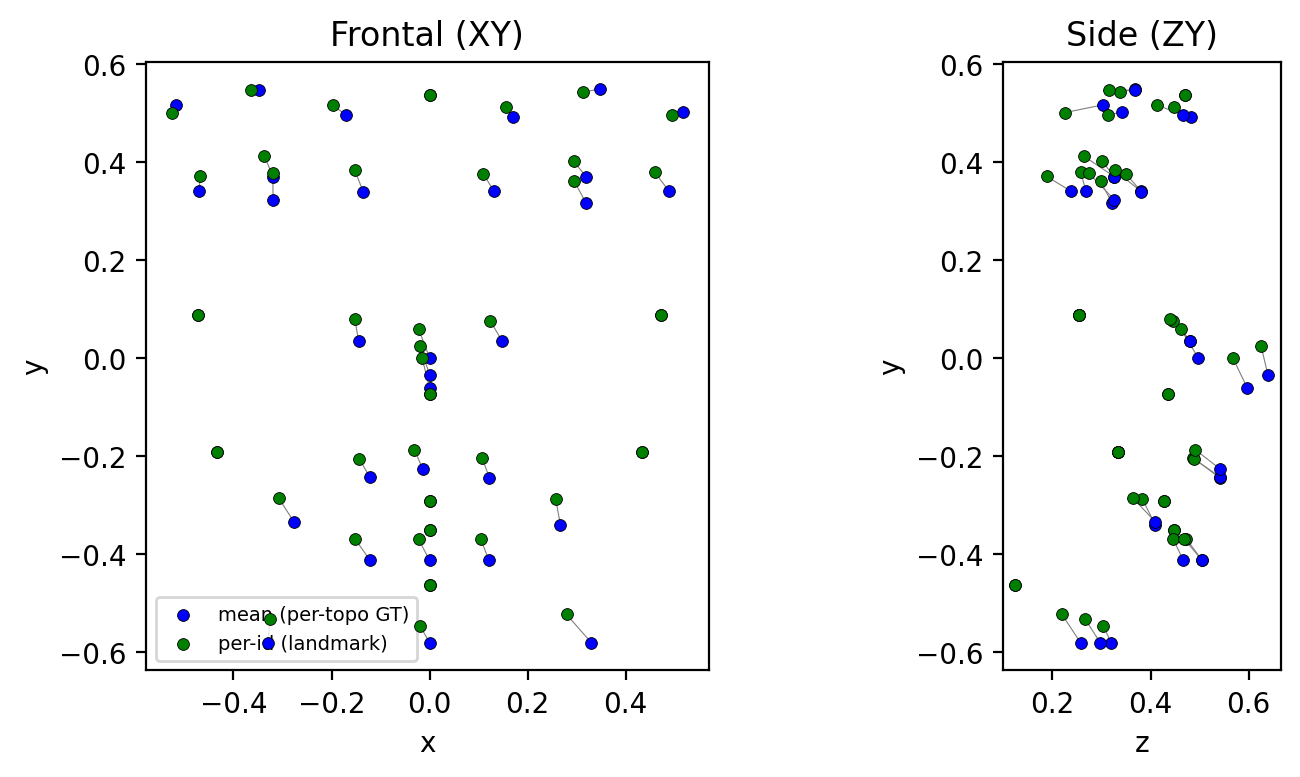
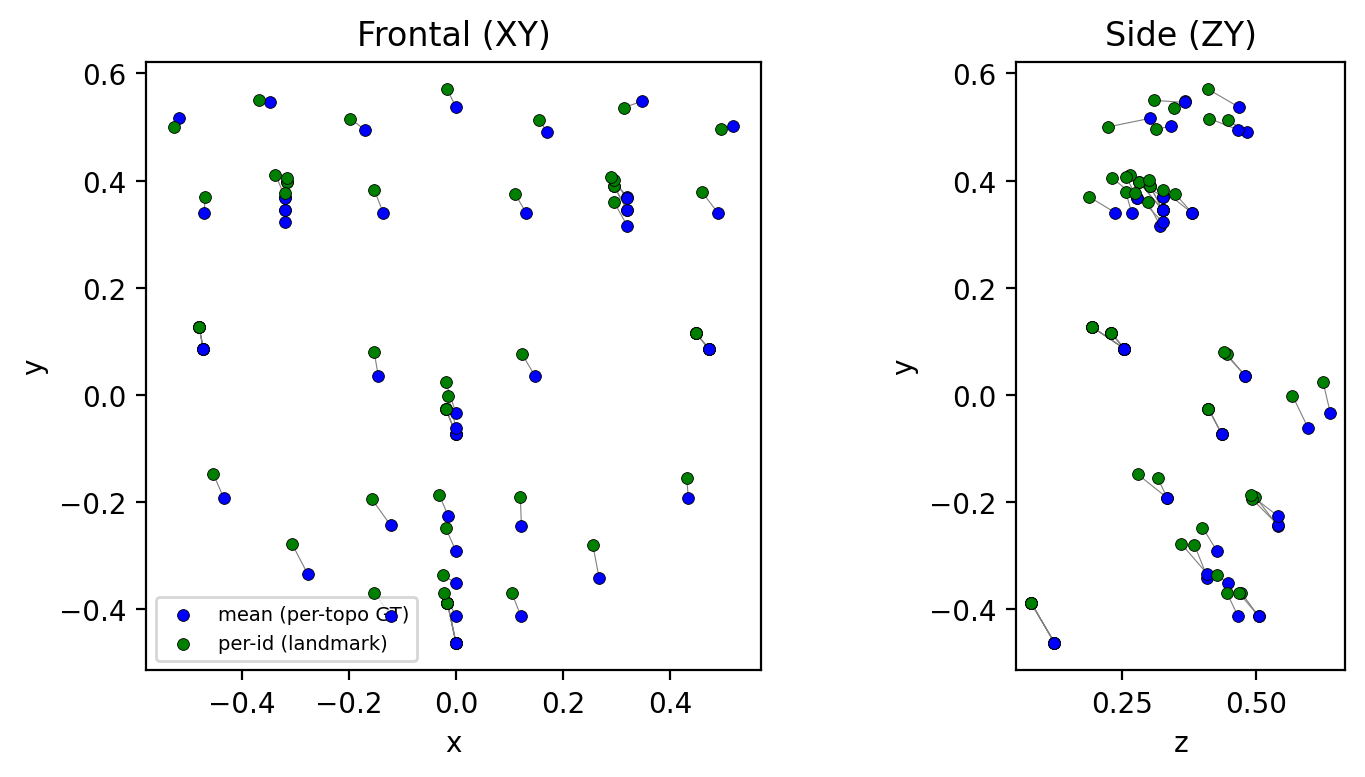
chore(vis): refresh per-id bind-pose vis for ICT id=2 + MF val/test
Re-ran tools/vis/vis_per_id_bind_pos_landmark.py for ICT id=2 (new)
and MF val (002421669) / test (002645310) (updated). Maya import
script also regenerated for ICT id=2. Matches the existing per-id
visualization workflow already tracked for other identities.

diff --git a/maya_rig/hybrid/per_id_bind_pose_vis/ict_002_bind_pos_maya.py b/maya_rig/hybrid/per_id_bind_pose_vis/ict_002_bind_pos_maya.py
@@ -1,0 +1,41 @@
+"""Auto-generated by vis_per_id_bind_pos_landmark.py
+Two skeleton hierarchies:
+  - ict_002_maya_mean  (BLUE):  per-topo mean bind_pos (Maya GT)
+  - ict_002_landmark   (GREEN): landmark-derived per-id bind_pos (Phase B GT)
+"""
+import maya.cmds as cmds
+
+
+_MEAN_POS  = {'hybrid_jnt_Root': [0.0, -1.4533270597457886, -0.23328500986099243], 'hybrid_jnt_Neck': [0.0, -0.38433727622032166, -0.23328500986099243], 'hybrid_jnt_Skull_Root': [0.0, -0.21502837538719177, -0.23328500986099243], 'hybrid_jnt_Cranium': [0.3191438317298889, 0.34560272097587585, 0.32614728808403015], 'hybrid_jnt_Crown': [-0.3191438317298889, 0.34560272097587585, 0.32614728808403015], 'hybrid_jnt_Left_Crown_Outer': [0.3191438317298889, 0.34560272097587585, 0.32614728808403015], 'hybrid_jnt_Right_Crown_Outer': [-0.3191438317298889, 0.34560272097587585, 0.32614728808403015], 'hybrid_jnt_Skull_Center': [0.0, 0.3686428666114807, -0.3083529472351074], 'hybrid_jnt_Brow_Center': [0.0, 0.5365728735923767, 0.4696204662322998], 'hybrid_jnt_Left_Orbital': [0.3190000057220459, 0.3674677908420563, 0.27875280380249023], 'hybrid_jnt_Left_Brow_Outer': [0.5166444778442383, 0.5079638361930847, 0.34216737747192383], 'hybrid_jnt_Left_Eye_Socket': [0.3191438317298889, 0.34560272097587585, 0.32614728808403015], 'hybrid_jnt_Left_Upper_Eyelid': [0.3191438317298889, 0.3697943389415741, 0.32614728808403015], 'hybrid_jnt_Left_Lower_Eyelid': [0.3191438317298889, 0.3229837417602539, 0.32614728808403015], 'hybrid_jnt_Left_Eye_Inner_Corner': [0.14372175931930542, 0.3396908938884735, 0.38130518794059753], 'hybrid_jnt_Left_Eye_Outer_Corner': [0.44886863231658936, 0.3402637541294098, 0.29000139236450195], 'hybrid_jnt_Left_Cheek_Bone': [0.4713954031467438, 0.0868455246090889, 0.254507839679718], 'hybrid_jnt_Left_Eyebrow_Mid': [0.3467485010623932, 0.5541574954986572, 0.36755743622779846], 'hybrid_jnt_Left_Eyebrow_Inner': [0.1701490730047226, 0.5432080626487732, 0.48302945494651794], 'hybrid_jnt_Right_Orbital': [-0.3190000057220459, 0.3674677908420563, 0.27875280380249023], 'hybrid_jnt_Right_Eye_Socket': [-0.3191438317298889, 0.34560272097587585, 0.32614728808403015], 'hybrid_jnt_Right_Upper_Eyelid': [-0.3191438317298889, 0.3697943389415741, 0.32614728808403015], 'hybrid_jnt_Right_Lower_Eyelid': [-0.3191438317298889, 0.3229837417602539, 0.32614728808403015], 'hybrid_jnt_Right_Eye_Inner_Corner': [-0.14372175931930542, 0.3396908938884735, 0.38130518794059753], 'hybrid_jnt_Right_Eye_Outer_Corner': [-0.44886863231658936, 0.3402637541294098, 0.29000139236450195], 'hybrid_jnt_Right_Cheek_Bone': [-0.4713954031467438, 0.0868455246090889, 0.254507839679718], 'hybrid_jnt_Right_Brow_Outer': [-0.5166444778442383, 0.5079638361930847, 0.34216737747192383], 'hybrid_jnt_Right_Eyebrow_Mid': [-0.3467485010623932, 0.5541574954986572, 0.36755743622779846], 'hybrid_jnt_Right_Eyebrow_Inner': [-0.1701490730047226, 0.5432080626487732, 0.48302945494651794], 'hybrid_jnt_Nose_Root_A': [0.3190000057220459, 0.3674677908420563, 0.27875280380249023], 'hybrid_jnt_Nose_Root_B': [-0.3190000057220459, 0.3674677908420563, 0.27875280380249023], 'hybrid_jnt_Nose_Bridge': [0.0, -0.4621318578720093, 0.12445151805877686], 'hybrid_jnt_Nose_Ridge_A': [0.4713954031467438, 0.0868455246090889, 0.254507839679718], 'hybrid_jnt_Nose_Ridge_B': [-0.4713954031467438, 0.0868455246090889, 0.254507839679718], 'hybrid_jnt_Ears': [0.0, -0.4621318578720093, 0.12445151805877686], 'hybrid_jnt_Left_Ear_Position': [0.4713954031467438, 0.0868455246090889, 0.254507839679718], 'hybrid_jnt_Left_Ear_Rotate_Scale': [0.0, -0.4621318578720093, 0.12445151805877686], 'hybrid_jnt_Right_Ear_Position': [-0.4713954031467438, 0.0868455246090889, 0.254507839679718], 'hybrid_jnt_Right_Ear_Rotate_Scale': [0.0, -0.4621318578720093, 0.12445151805877686], 'hybrid_jnt_Lower_Face_Root': [0.0, -0.027279984205961227, 0.00618035439401865], 'hybrid_jnt_Jaw_Root': [0.0, -0.29192081093788147, -0.2678912281990051], 'hybrid_jnt_Jaw_Front': [0.0, -0.4621318578720093, 0.12445151805877686], 'hybrid_jnt_Chin': [0.0, -0.07277660071849823, 0.4364658296108246], 'hybrid_jnt_Right_Chin': [0.0, -0.07277660071849823, 0.4364658296108246], 'hybrid_jnt_Left_Chin': [0.0, -0.07277660071849823, 0.4364658296108246], 'hybrid_jnt_Right_Jaw_Root': [-0.4713954031467438, 0.0868455246090889, 0.254507839679718], 'hybrid_jnt_Left_Jaw_Root': [0.4713954031467438, 0.0868455246090889, 0.254507839679718], 'hybrid_jnt_Mouth_Center_Bottom': [0.0, -0.350857138633728, 0.44829168915748596], 'hybrid_jnt_Bottom_Lip': [0.0, -0.3507232666015625, 0.517536461353302], 'hybrid_jnt_Left_Lip_Lower_Side': [0.12099999934434891, -0.41255947947502136, 0.5381299257278442], 'hybrid_jnt_Right_Lip_Lower_Side': [-0.12099999934434891, -0.41255947947502136, 0.5381299257278442], 'hybrid_jnt_Maxilla': [0.0, -0.07277660071849823, 0.4364658296108246], 'hybrid_jnt_Nose_Base_Position': [0.0, -0.037316419184207916, 0.6710366606712341], 'hybrid_jnt_Nose_Base_Rotate': [0.0, -0.08767542988061905, 0.6381549835205078], 'hybrid_jnt_Nose_Tip': [0.0, -0.06084964796900749, 0.6800464391708374], 'hybrid_jnt_Nose_Nostril': [0.0, -0.026054536923766136, 0.5379189252853394], 'hybrid_jnt_Left_Nose_Wing': [0.14755572378635406, 0.009017782285809517, 0.5213837623596191], 'hybrid_jnt_Right_Nose_Wing': [-0.14755572378635406, 0.009017782285809517, 0.5213837623596191], 'hybrid_jnt_Mouth_Center_Top': [0.0, -0.29127857089042664, 0.4280568063259125], 'hybrid_jnt_Mouth_Left_Corner': [0.2550818920135498, -0.35656142234802246, 0.4804385006427765], 'hybrid_jnt_Mouth_Right_Corner': [-0.2550818920135498, -0.35656142234802246, 0.4804385006427765], 'hybrid_jnt_Left_Lip_Upper_Side': [0.12214907258749008, -0.25020095705986023, 0.5601837635040283], 'hybrid_jnt_Right_Lip_Upper_Side': [-0.12214907258749008, -0.25020095705986023, 0.5601837635040283], 'hybrid_jnt_Top_Lip': [0.0, -0.3189610242843628, 0.5544995069503784], 'hybrid_jnt_Left_Cheek': [0.4335280656814575, -0.1914682537317276, 0.33451932668685913], 'hybrid_jnt_Right_Cheek': [-0.4335280656814575, -0.1914682537317276, 0.33451932668685913]}
+_PRED_POS  = {'hybrid_jnt_Root': [-0.03573337942361832, -1.4278072118759155, 0.04225388914346695], 'hybrid_jnt_Neck': [0.014249563217163086, -0.363309770822525, -0.09585262089967728], 'hybrid_jnt_Skull_Root': [0.012392044067382812, -0.20452764630317688, -0.11101994663476944], 'hybrid_jnt_Cranium': [0.3063409626483917, 0.37244272232055664, 0.32517850399017334], 'hybrid_jnt_Crown': [-0.3053361177444458, 0.3747813105583191, 0.322600394487381], 'hybrid_jnt_Left_Crown_Outer': [0.3063409626483917, 0.37244272232055664, 0.32517850399017334], 'hybrid_jnt_Right_Crown_Outer': [-0.3053361177444458, 0.3747813105583191, 0.322600394487381], 'hybrid_jnt_Skull_Center': [0.014601409435272217, 0.386157751083374, -0.25235673785209656], 'hybrid_jnt_Brow_Center': [0.0009851065697148442, 0.5296617746353149, 0.44947677850723267], 'hybrid_jnt_Left_Orbital': [0.31355562806129456, 0.3773452043533325, 0.2756325602531433], 'hybrid_jnt_Left_Brow_Outer': [0.5016636848449707, 0.49378448724746704, 0.3368035554885864], 'hybrid_jnt_Left_Eye_Socket': [0.3063409626483917, 0.37244272232055664, 0.32517850399017334], 'hybrid_jnt_Left_Upper_Eyelid': [0.31114569306373596, 0.3893779218196869, 0.30669838190078735], 'hybrid_jnt_Left_Lower_Eyelid': [0.3097221553325653, 0.3499433100223541, 0.31688767671585083], 'hybrid_jnt_Left_Eye_Inner_Corner': [0.13551275432109833, 0.34671762585639954, 0.36961209774017334], 'hybrid_jnt_Left_Eye_Outer_Corner': [0.4425666630268097, 0.35326117277145386, 0.28611668944358826], 'hybrid_jnt_Left_Cheek_Bone': [0.4631071388721466, 0.09974955767393112, 0.28442704677581787], 'hybrid_jnt_Left_Eyebrow_Mid': [0.3489781618118286, 0.5430659055709839, 0.3713197708129883], 'hybrid_jnt_Left_Eyebrow_Inner': [0.17101453244686127, 0.5361475348472595, 0.47438910603523254], 'hybrid_jnt_Right_Orbital': [-0.3102894425392151, 0.3791470229625702, 0.2726798355579376], 'hybrid_jnt_Right_Eye_Socket': [-0.3053361177444458, 0.3747813105583191, 0.322600394487381], 'hybrid_jnt_Right_Upper_Eyelid': [-0.3129808306694031, 0.39521369338035583, 0.30573076009750366], 'hybrid_jnt_Right_Lower_Eyelid': [-0.31076258420944214, 0.35118046402931213, 0.3160267770290375], 'hybrid_jnt_Right_Eye_Inner_Corner': [-0.13967357575893402, 0.3489583730697632, 0.3685244917869568], 'hybrid_jnt_Right_Eye_Outer_Corner': [-0.4403119683265686, 0.3552616834640503, 0.2829209566116333], 'hybrid_jnt_Right_Cheek_Bone': [-0.4596659243106842, 0.09936325997114182, 0.2836209833621979], 'hybrid_jnt_Right_Brow_Outer': [-0.49630314111709595, 0.49120447039604187, 0.33570918440818787], 'hybrid_jnt_Right_Eyebrow_Mid': [-0.34735479950904846, 0.5429720878601074, 0.37041419744491577], 'hybrid_jnt_Right_Eyebrow_Inner': [-0.1700991541147232, 0.5359600782394409, 0.47382453083992004], 'hybrid_jnt_Nose_Root_A': [0.31355562806129456, 0.3773452043533325, 0.2756325602531433], 'hybrid_jnt_Nose_Root_B': [-0.3102894425392151, 0.3791470229625702, 0.2726798355579376], 'hybrid_jnt_Nose_Bridge': [-0.007397668901830912, -0.42423272132873535, 0.24967539310455322], 'hybrid_jnt_Nose_Ridge_A': [0.4631071388721466, 0.09974955767393112, 0.28442704677581787], 'hybrid_jnt_Nose_Ridge_B': [-0.4596659243106842, 0.09936325997114182, 0.2836209833621979], 'hybrid_jnt_Ears': [-0.007397668901830912, -0.42423272132873535, 0.24967539310455322], 'hybrid_jnt_Left_Ear_Position': [0.4631071388721466, 0.09974955767393112, 0.28442704677581787], 'hybrid_jnt_Left_Ear_Rotate_Scale': [-0.007397668901830912, -0.42423272132873535, 0.24967539310455322], 'hybrid_jnt_Right_Ear_Position': [-0.4596659243106842, 0.09936325997114182, 0.2836209833621979], 'hybrid_jnt_Right_Ear_Rotate_Scale': [-0.007397668901830912, -0.42423272132873535, 0.24967539310455322], 'hybrid_jnt_Lower_Face_Root': [0.004937276244163513, -0.06912544369697571, 0.022174537181854248], 'hybrid_jnt_Jaw_Root': [0.012964785099029541, -0.27742770314216614, -0.14309118688106537], 'hybrid_jnt_Jaw_Front': [-0.007397668901830912, -0.42423272132873535, 0.24967539310455322], 'hybrid_jnt_Chin': [0.0032234229147434235, -0.1121782436966896, 0.4542900621891022], 'hybrid_jnt_Right_Chin': [0.0032234229147434235, -0.1121782436966896, 0.4542900621891022], 'hybrid_jnt_Left_Chin': [0.0032234229147434235, -0.1121782436966896, 0.4542900621891022], 'hybrid_jnt_Right_Jaw_Root': [-0.4596659243106842, 0.09936325997114182, 0.2836209833621979], 'hybrid_jnt_Left_Jaw_Root': [0.4631071388721466, 0.09974955767393112, 0.28442704677581787], 'hybrid_jnt_Mouth_Center_Bottom': [-0.006030368153005838, -0.28043699264526367, 0.47217652201652527], 'hybrid_jnt_Bottom_Lip': [-0.004290944430977106, -0.2956070303916931, 0.5231558084487915], 'hybrid_jnt_Left_Lip_Lower_Side': [0.10899899154901505, -0.36154618859291077, 0.5369927287101746], 'hybrid_jnt_Right_Lip_Lower_Side': [-0.11882688850164413, -0.3580591082572937, 0.5350037217140198], 'hybrid_jnt_Maxilla': [0.0032234229147434235, -0.1121782436966896, 0.4542900621891022], 'hybrid_jnt_Nose_Base_Position': [-0.0010168962180614471, -0.0515594445168972, 0.6738095879554749], 'hybrid_jnt_Nose_Base_Rotate': [0.0015403699362650514, -0.10120034962892532, 0.6415838599205017], 'hybrid_jnt_Nose_Tip': [-0.004207126330584288, -0.05401867628097534, 0.6725713014602661], 'hybrid_jnt_Nose_Nostril': [0.0004180837422609329, -0.061459675431251526, 0.5549786686897278], 'hybrid_jnt_Left_Nose_Wing': [0.1295960545539856, 0.006804462522268295, 0.5098122358322144], 'hybrid_jnt_Right_Nose_Wing': [-0.13086016476154327, 0.00791177898645401, 0.5118792653083801], 'hybrid_jnt_Mouth_Center_Top': [0.0014621950685977936, -0.28631913661956787, 0.40077218413352966], 'hybrid_jnt_Mouth_Left_Corner': [0.2395421713590622, -0.31777462363243103, 0.48132190108299255], 'hybrid_jnt_Mouth_Right_Corner': [-0.24448330700397491, -0.31190812587738037, 0.4773540794849396], 'hybrid_jnt_Left_Lip_Upper_Side': [0.11661772429943085, -0.2312396913766861, 0.5349092483520508], 'hybrid_jnt_Right_Lip_Upper_Side': [-0.11937946081161499, -0.2300468385219574, 0.5352221131324768], 'hybrid_jnt_Top_Lip': [0.0009105197968892753, -0.30416011810302734, 0.5314405560493469], 'hybrid_jnt_Left_Cheek': [0.4175478518009186, -0.172069251537323, 0.36292019486427307], 'hybrid_jnt_Right_Cheek': [-0.4193429946899414, -0.16704516112804413, 0.3616521954536438]}
+_NAMES     = ['hybrid_jnt_Root', 'hybrid_jnt_Neck', 'hybrid_jnt_Skull_Root', 'hybrid_jnt_Skull_Center', 'hybrid_jnt_Left_Orbital', 'hybrid_jnt_Left_Eye_Socket', 'hybrid_jnt_Cranium', 'hybrid_jnt_Right_Orbital', 'hybrid_jnt_Right_Eye_Socket', 'hybrid_jnt_Crown', 'hybrid_jnt_Left_Crown_Outer', 'hybrid_jnt_Right_Crown_Outer', 'hybrid_jnt_Brow_Center', 'hybrid_jnt_Left_Brow_Outer', 'hybrid_jnt_Left_Upper_Eyelid', 'hybrid_jnt_Left_Lower_Eyelid', 'hybrid_jnt_Left_Eye_Inner_Corner', 'hybrid_jnt_Left_Eye_Outer_Corner', 'hybrid_jnt_Left_Cheek_Bone', 'hybrid_jnt_Left_Eyebrow_Mid', 'hybrid_jnt_Left_Eyebrow_Inner', 'hybrid_jnt_Right_Upper_Eyelid', 'hybrid_jnt_Right_Lower_Eyelid', 'hybrid_jnt_Right_Eye_Inner_Corner', 'hybrid_jnt_Right_Eye_Outer_Corner', 'hybrid_jnt_Right_Cheek_Bone', 'hybrid_jnt_Right_Brow_Outer', 'hybrid_jnt_Right_Eyebrow_Mid', 'hybrid_jnt_Right_Eyebrow_Inner', 'hybrid_jnt_Nose_Root_A', 'hybrid_jnt_Nose_Root_B', 'hybrid_jnt_Lower_Face_Root', 'hybrid_jnt_Jaw_Root', 'hybrid_jnt_Jaw_Front', 'hybrid_jnt_Nose_Bridge', 'hybrid_jnt_Nose_Ridge_A', 'hybrid_jnt_Nose_Ridge_B', 'hybrid_jnt_Ears', 'hybrid_jnt_Left_Ear_Position', 'hybrid_jnt_Left_Ear_Rotate_Scale', 'hybrid_jnt_Right_Ear_Position', 'hybrid_jnt_Right_Ear_Rotate_Scale', 'hybrid_jnt_Maxilla', 'hybrid_jnt_Chin', 'hybrid_jnt_Right_Chin', 'hybrid_jnt_Left_Chin', 'hybrid_jnt_Right_Jaw_Root', 'hybrid_jnt_Left_Jaw_Root', 'hybrid_jnt_Mouth_Center_Bottom', 'hybrid_jnt_Bottom_Lip', 'hybrid_jnt_Left_Lip_Lower_Side', 'hybrid_jnt_Right_Lip_Lower_Side', 'hybrid_jnt_Nose_Base_Position', 'hybrid_jnt_Nose_Base_Rotate', 'hybrid_jnt_Nose_Tip', 'hybrid_jnt_Nose_Nostril', 'hybrid_jnt_Left_Nose_Wing', 'hybrid_jnt_Right_Nose_Wing', 'hybrid_jnt_Mouth_Center_Top', 'hybrid_jnt_Mouth_Left_Corner', 'hybrid_jnt_Mouth_Right_Corner', 'hybrid_jnt_Left_Lip_Upper_Side', 'hybrid_jnt_Right_Lip_Upper_Side', 'hybrid_jnt_Top_Lip', 'hybrid_jnt_Left_Cheek', 'hybrid_jnt_Right_Cheek']
+_PARENTS   = [None, 'hybrid_jnt_Root', 'hybrid_jnt_Neck', 'hybrid_jnt_Skull_Root', 'hybrid_jnt_Skull_Center', 'hybrid_jnt_Left_Orbital', 'hybrid_jnt_Left_Eye_Socket', 'hybrid_jnt_Skull_Center', 'hybrid_jnt_Right_Orbital', 'hybrid_jnt_Right_Eye_Socket', 'hybrid_jnt_Left_Eye_Socket', 'hybrid_jnt_Right_Eye_Socket', 'hybrid_jnt_Skull_Center', 'hybrid_jnt_Left_Orbital', 'hybrid_jnt_Left_Eye_Socket', 'hybrid_jnt_Left_Eye_Socket', 'hybrid_jnt_Left_Eye_Socket', 'hybrid_jnt_Left_Eye_Socket', 'hybrid_jnt_Left_Orbital', 'hybrid_jnt_Left_Orbital', 'hybrid_jnt_Left_Orbital', 'hybrid_jnt_Right_Eye_Socket', 'hybrid_jnt_Right_Eye_Socket', 'hybrid_jnt_Right_Eye_Socket', 'hybrid_jnt_Right_Eye_Socket', 'hybrid_jnt_Right_Orbital', 'hybrid_jnt_Right_Orbital', 'hybrid_jnt_Right_Orbital', 'hybrid_jnt_Right_Orbital', 'hybrid_jnt_Left_Orbital', 'hybrid_jnt_Right_Orbital', 'hybrid_jnt_Skull_Root', 'hybrid_jnt_Lower_Face_Root', 'hybrid_jnt_Jaw_Root', 'hybrid_jnt_Jaw_Front', 'hybrid_jnt_Left_Cheek_Bone', 'hybrid_jnt_Right_Cheek_Bone', 'hybrid_jnt_Jaw_Front', 'hybrid_jnt_Left_Cheek_Bone', 'hybrid_jnt_Jaw_Front', 'hybrid_jnt_Right_Cheek_Bone', 'hybrid_jnt_Jaw_Front', 'hybrid_jnt_Lower_Face_Root', 'hybrid_jnt_Maxilla', 'hybrid_jnt_Maxilla', 'hybrid_jnt_Maxilla', 'hybrid_jnt_Right_Cheek_Bone', 'hybrid_jnt_Left_Cheek_Bone', 'hybrid_jnt_Jaw_Front', 'hybrid_jnt_Mouth_Center_Bottom', 'hybrid_jnt_Mouth_Center_Bottom', 'hybrid_jnt_Mouth_Center_Bottom', 'hybrid_jnt_Maxilla', 'hybrid_jnt_Nose_Base_Position', 'hybrid_jnt_Nose_Base_Rotate', 'hybrid_jnt_Nose_Base_Rotate', 'hybrid_jnt_Nose_Base_Rotate', 'hybrid_jnt_Nose_Base_Rotate', 'hybrid_jnt_Maxilla', 'hybrid_jnt_Mouth_Center_Top', 'hybrid_jnt_Mouth_Center_Top', 'hybrid_jnt_Mouth_Center_Top', 'hybrid_jnt_Mouth_Center_Top', 'hybrid_jnt_Mouth_Center_Top', 'hybrid_jnt_Maxilla', 'hybrid_jnt_Maxilla']
+_PREFIX    = 'ict_002'
+
+
+def _build(label, positions, color_rgb):
+    grp = cmds.group(em=True, n=f'{_PREFIX}_{label}')
+    for name, parent in zip(_NAMES, _PARENTS):
+        jname = f'{_PREFIX}_{label}_{name}'
+        if parent is None:
+            cmds.select(grp)
+        else:
+            cmds.select(f'{_PREFIX}_{label}_{parent}')
+        cmds.joint(p=positions[name], n=jname)
+        cmds.setAttr(f'{jname}.overrideEnabled', 1)
+        cmds.setAttr(f'{jname}.overrideColor', color_rgb)
+    cmds.select(cl=True)
+    return grp
+
+
+def main():
+    for _lbl in ('maya_mean', 'landmark'):
+        _g = f'{_PREFIX}_{_lbl}'
+        if cmds.objExists(_g):
+            cmds.delete(_g)
+    _build('maya_mean', _MEAN_POS, 6)    # blue
+    _build('landmark',  _PRED_POS, 14)   # green
+    print(f'Created: {_PREFIX}_maya_mean (blue)  +  {_PREFIX}_landmark (green)')
+
+
+main()
